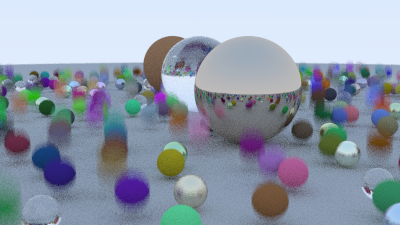
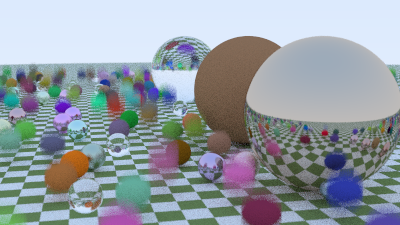
Impl prelim textures.

diff --git a/src/main.cpp b/src/main.cpp
@@ -9,8 +9,9 @@ int main()
 	WorldObjectList primaryWOL;
 
 	// Ground sphere.
-	std::shared_ptr<MLambertian> groundMat = std::make_shared<MLambertian>(Vec3(0.5, 0.5, 0.5));
-	primaryWOL.addToWorld(std::make_shared<WOSphere>(Vec3(0, -1000, 0), 1000, groundMat));
+	//std::shared_ptr<MLambertian> groundMat = std::make_shared<MLambertian>(Vec3(0.5, 0.5, 0.5));
+	auto texCheckers = std::make_shared<TCheckers>(0.32, ColorVec3(.2, .3, .1), ColorVec3(.9, .9, .9));
+	primaryWOL.addToWorld(std::make_shared<WOSphere>(Vec3(0, -1000, 0), 1000, std::make_shared<MLambertian>(texCheckers)));
 
 	// All other world objects.
 	for (int a{ -11 }; a < 11; a++)
@@ -53,13 +54,13 @@ int main()
 	}
 
 	std::shared_ptr<Material> mat1 = std::make_shared<MDielectric>(1.5f);
-	primaryWOL.addToWorld(std::make_shared<WOSphere>(Vec3(0, 1, 0), 1.f, mat1));
+	primaryWOL.addToWorld(std::make_shared<WOSphere>(Vec3(-2, 1, 0), 1.f, mat1));
 
 	std::shared_ptr<Material> mat2 = std::make_shared<MLambertian>(Vec3(0.4f, 0.2f, 0.1f));
-	primaryWOL.addToWorld(std::make_shared<WOSphere>(Vec3(-4, 1, 0), 1.f, mat2));
+	primaryWOL.addToWorld(std::make_shared<WOSphere>(Vec3(4, 1, 0), 1.f, mat2));
 
 	std::shared_ptr<Material> mat3 = std::make_shared<MMetal>(Vec3(0.7f, 0.6f, 0.5f), 0.f);
-	primaryWOL.addToWorld(std::make_shared<WOSphere>(Vec3(4, 1, 0), 1.f, mat3));
+	primaryWOL.addToWorld(std::make_shared<WOSphere>(Vec3(7, 1, 0), 1.f, mat3));
 
 	primaryWOL = WorldObjectList(std::make_shared<WOBVHNode>(primaryWOL));
 

diff --git a/src/headers/textures/checkers.h b/src/headers/textures/checkers.h
@@ -1,0 +1,31 @@
+#pragma once
+
+class TCheckers : public Texture
+{
+public:
+	TCheckers(double scaleFac, std::shared_ptr<Texture> evenTex, std::shared_ptr<Texture> oddTex) : evenTex(evenTex), oddTex(oddTex), invScale(1 / scaleFac) {}
+
+	TCheckers(double scaleFac, ColorVec3 first, ColorVec3 second)
+	{
+		invScale = 1.f / scaleFac;
+		evenTex = std::make_shared<TSolidColor>(first);
+		oddTex = std::make_shared<TSolidColor>(second);
+	}
+
+	ColorVec3 getTexColorAtCoords(double u, double v, const PointVec3& currPoint) const override
+	{
+		int xInt = static_cast<int>(std::floor(invScale * currPoint.getX()));
+		int yInt = static_cast<int>(std::floor(invScale * currPoint.getY()));
+		int zInt = static_cast<int>(std::floor(invScale * currPoint.getZ()));
+
+		bool isEven = (xInt + yInt + zInt) % 2 == 0;
+
+		return isEven ? evenTex->getTexColorAtCoords(u, v, currPoint) : oddTex->getTexColorAtCoords(u, v, currPoint);
+	}
+
+private:
+	double invScale;
+	std::shared_ptr<Texture> evenTex;
+	std::shared_ptr<Texture> oddTex;
+
+};

diff --git a/src/headers/materials/lambertian.h b/src/headers/materials/lambertian.h
@@ -4,18 +4,19 @@
 class MLambertian : public Material
 {
 public:
-	MLambertian(const ColorVec3& albedo) : albedoValue(albedo) {}
+	MLambertian(const ColorVec3& albedo) : albedoValue(std::make_shared<TSolidColor>(albedo)) {}
+	MLambertian(std::shared_ptr<Texture> tex) : albedoValue(tex) {}
 
 	bool handleRayScatter(const Ray& inputRay, Ray& scatteredRay, const HitRecord& hitRec, ColorVec3& colorAttenuation) const override
 	{
 		Vec3 newReflRayDir{ hitRec.hitNormalVec + genNormalizedRandVec3UnitSphere() };
 		if (newReflRayDir.checkNearZero()) { newReflRayDir = hitRec.hitNormalVec; }
 		scatteredRay = Ray(hitRec.hitPoint, newReflRayDir, inputRay.getRayTime());
-		colorAttenuation = albedoValue;
+		colorAttenuation = albedoValue->getTexColorAtCoords(hitRec.hitTexU, hitRec.hitTexV, hitRec.hitPoint);
 		return true;
 	}
 
 private:
-	ColorVec3 albedoValue;
+	std::shared_ptr<Texture> albedoValue;
 
 };

diff --git a/src/headers/base/texture.h b/src/headers/base/texture.h
@@ -1,0 +1,25 @@
+#pragma once
+
+class Texture
+{
+public:
+	virtual ~Texture() = default;
+
+	virtual ColorVec3 getTexColorAtCoords(double u, double v, const PointVec3& currPoint) const = 0;
+};
+
+class TSolidColor : public Texture
+{
+public:
+	TSolidColor(ColorVec3 color) : colorValue(color) {}
+
+	TSolidColor(double redV, double greenV, double blueV) : TSolidColor(ColorVec3(redV, greenV, blueV)) {}
+
+	ColorVec3 getTexColorAtCoords(double u, double v, const PointVec3& currPoint) const override
+	{
+		return colorValue;
+	}
+
+private:
+	ColorVec3 colorValue;
+};

diff --git a/src/headers/base/util.h b/src/headers/base/util.h
@@ -107,6 +107,8 @@ inline void UPrintSuccessLog(
 #include "worldObject.h"
 #include "worldObjectList.h"
 #include "../world_objects/sphere.h"
+#include "../base/texture.h"
+#include "../textures/checkers.h"
 #include "material.h"
 #include "../materials/lambertian.h"
 #include "../materials/metal.h"
@@ -114,6 +116,7 @@ inline void UPrintSuccessLog(
 #include "camera.h"
 #include "../base/aabb.h"
 #include "../base/bvh_node.h"
+
 
 // CONSTS
 constexpr bool USE_MT{ true };

diff --git a/src/headers/base/worldObjectList.h b/src/headers/base/worldObjectList.h
@@ -6,6 +6,7 @@ public:
 	std::vector<std::shared_ptr<WorldObject>> WOList;
 
 	WorldObjectList() {}
+
 	WorldObjectList(std::shared_ptr<WorldObject> wObj) { addToWorld(wObj); }
 
 	void addToWorld(std::shared_ptr<WorldObject> wObj)

diff --git a/src/headers/base/worldObject.h b/src/headers/base/worldObject.h
@@ -10,6 +10,8 @@ public:
 	PointVec3 hitPoint;
 	Vec3 hitNormalVec;
 	double hitRoot{ 0 };
+	double hitTexU;
+	double hitTexV;
 	bool frontFace{ false };
 	std::shared_ptr<Material> hitMaterial;
 
